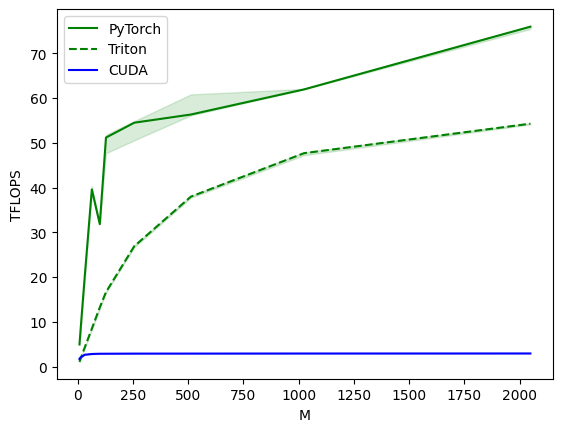
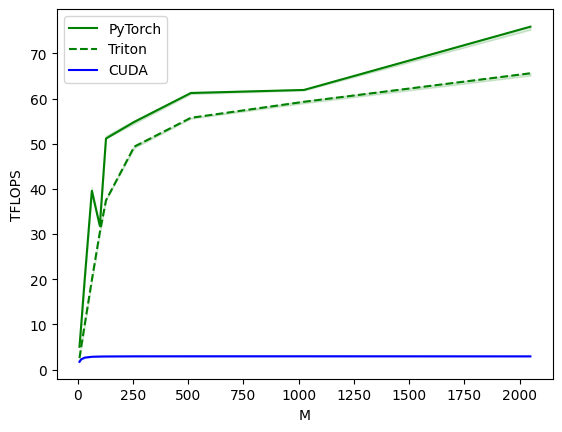
Triton kernel now unpacks zeros itself. Performance of Triton kernel is now even closer to FP16. Also tweaked ppl.py slightly to reduce memory usage.

diff --git a/quant.py b/quant.py
@@ -157,7 +157,7 @@ def matmul4_kernel(
 	B is of shape (K//8, N) int32
 	C is of shape (M, N) float16
 	scales is of shape (1, N) float16
-	zeros is of shape (1, N) float16
+	zeros is of shape (1, N//8) int32
 
 	WARNING: This kernel assumes that K is a multiple of BLOCK_SIZE_K.
 	WARNING: This kernel assumes that N is a multiple of BLOCK_SIZE_N.
@@ -181,14 +181,20 @@ def matmul4_kernel(
 	# b_ptrs is set up such that it repeats elements along the K axis 8 times
 	b_ptrs = b_ptr + ((offs_k[:, None] // 8) * stride_bk + offs_bn[None, :] * stride_bn)   # (BLOCK_SIZE_K, BLOCK_SIZE_N)
 	scales_ptrs = scales_ptr + offs_bn * stride_scales
-	zeros_ptrs = zeros_ptr + offs_bn * stride_zeros
+	# zeros_ptrs is set up such that it repeats elements along the N axis 8 times
+	zeros_ptrs = zeros_ptr + (offs_bn // 8) * stride_zeros
+
+	# shifter is used to extract the 4 bits of each element in the 32-bit word from B and zeros
+	shifter = (offs_k % 8) * 4
+	zeros_shifter = (offs_bn % 8) * 4
 
 	# Fetch scales and zeros; these are per-outfeature and thus reused in the inner loop
 	scales = tl.load(scales_ptrs)  # (BLOCK_SIZE_N,)
-	zeros = tl.load(zeros_ptrs)  # (BLOCK_SIZE_N,)
+	zeros = tl.load(zeros_ptrs)  # (BLOCK_SIZE_N,), each element is repeated 8 times, int32
 
-	# shifter is used to extract the 4 bits of each element in the 32-bit word from B
-	shifter = (offs_k % 8) * 4
+	# Unpack zeros
+	zeros = (zeros >> zeros_shifter) & 0xF  # (BLOCK_SIZE_N,) int32
+	zeros = (zeros + 1) * scales  # (BLOCK_SIZE_N,) float16
 
 	# For debugging
 	#offs_dk = 0 + tl.arange(0, BLOCK_SIZE_K)
@@ -251,13 +257,6 @@ def triton_matmul4(a: torch.FloatTensor, qweight: torch.IntTensor, scales: torch
 	# This is based on the maximum BLOCK_SIZE_N; for our use cases (LLMs) we expect N to be large and a power of two
 	assert N % 256 == 0, "N must be a multiple of 256"
 
-	# Unpack zeros into (1, N) float16
-	zeros = qzeros.flatten()  # (N//8,) int32
-	zeros = torch.repeat_interleave(zeros, 8)  # ((N//8)*8,) int32
-	shifter = (torch.arange(0, N, device='cuda', dtype=torch.int32) % 8) * 4
-	zeros = (zeros >> shifter) & 0xF  # (N,) int32
-	zeros = (zeros + 1) * scales[0]  # (N,) float16
-
 	c = torch.empty((M, N), device='cuda', dtype=torch.float16)
 	#debug = torch.empty((32*32, 128), device='cuda', dtype=torch.float32)
 	grid = lambda META: (
@@ -266,12 +265,12 @@ def triton_matmul4(a: torch.FloatTensor, qweight: torch.IntTensor, scales: torch
 	#grid = lambda META: (1,)  # For debugging
 	matmul4_kernel[grid](
 		x, qweight, c, #debug,
-		scales, zeros,
+		scales, qzeros,
 		M, N, K,
 		x.stride(0), x.stride(1),
 		qweight.stride(0), qweight.stride(1),
 		c.stride(0), c.stride(1),
-		scales.stride(1), zeros.stride(0),
+		scales.stride(1), qzeros.stride(1),
 		#debug.stride(0), debug.stride(1),
 	)
 

diff --git a/ppl.py b/ppl.py
@@ -87,17 +87,17 @@ def calculate_perplexity(model, tokenizer, dataset: str, max_length: int, stride
 	nlls = []
 	prev_end_loc = 0
 
-	for begin_loc in tqdm(range(0, seq_len - 1, stride)):
-		torch.cuda.synchronize()
+	for begin_loc in (pbar := tqdm(range(0, seq_len - 1, stride))):
 		end_loc = min(seq_len - 1, begin_loc + max_length)
 		trg_len = end_loc - prev_end_loc  # How many tokens we want to predict
 		input_ids = encodings[:, begin_loc:end_loc+1].to('cuda')  # +1 for the labels
 
 		with torch.no_grad():
 			# Ask the model for logits
-			outputs = model(input_ids[:, :-1])
-			# We only want the last trg_len logits
-			logits = outputs.logits[..., -trg_len:, :].contiguous()
+			# NOTE: Instead of calling HF's model wrapper, we call the model directly to hopefully cut down on some memory overhead
+			outputs = model.model(input_ids[:, :-1])
+			logits = model.lm_head(outputs[0][..., -trg_len:, :])
+
 			# The last trg_len tokens are the labels
 			labels = input_ids[:, -trg_len:].contiguous()
 
@@ -105,7 +105,9 @@ def calculate_perplexity(model, tokenizer, dataset: str, max_length: int, stride
 			loss_fct = nn.CrossEntropyLoss()
 			loss = loss_fct(logits.view(-1, logits.size(-1)), labels.view(-1))
 		
-		nlls.append(loss)
+		nlls.append(loss.to('cpu').to(torch.float32))
+		ppl = torch.exp(torch.stack(nlls).mean())
+		pbar.set_description(f"Perplexity: {ppl:.2f}")
 
 		prev_end_loc = end_loc
 		if end_loc == (seq_len - 1):

diff --git a/README.md b/README.md
@@ -27,23 +27,29 @@ This benchmark was run on a 3090 using the `Benchmark.ipynb` notebook.
 ![Triton benchmark graph](TritonBench.png)
 
 
-## Accuracy
+## Accuracy (PPL)
 
 The following results were obtained using the `ppl.py` script with a stride of 512 and a context length of 2048.
 For the 4bit CUDA results, a custom version of `ppl.py` was used, as the current script is dedicated to the Triton kernel convensions.
+it/s numbers are from a 3090.
 
 
 | [LLaMA-7B](https://arxiv.org/abs/2302.13971)       | Bits | group-size | memory(MiB) | it/s | Wikitext2 |  PTB  |  C4  | 
 | -------------------------------------------------- | ---- | ---------- | ----------- | ---- | --------- | ----- | ---- |
 | FP16                                               |  16  |      -     |    17373    | 1.64 |    5.04   |  7.85 | 6.99 |
 | GPTQ CUDA                                          |   4  |     -1     |     8805    | 0.11 |    5.44   |  8.24 |   -  |
-| GPTQ Triton                                        |   4  |     -1     |     8611    | 1.52 |    5.44   |  8.24 | 7.48 |
+| GPTQ Triton                                        |   4  |     -1     |     8099    | 1.63 |    5.44   |  8.24 | 7.48 |
 
 
 | [LLaMA-13B](https://arxiv.org/abs/2302.13971)      | Bits | group-size | memory(MiB) | it/s | Wikitext2 |  PTB  |  C4  |
 | -------------------------------------------------- | ---- | ---------- | ----------- | ---- | --------- | ----- | ---- |
-| FP16                                               |  16  |      -     |    OOM      |   -  |       -   |    -  |   -  |
+| FP16                                               |  16  |      -     |    31633    |   -  |    4.52   |  7.19 | 6.66 |
 | GPTQ Triton                                        |   4  |     -1     |    13241    | 0.89 |    4.74   |  7.49 | 7.00 |
+
+
+| [LLaMA-30B](https://arxiv.org/abs/2302.13971)      | Bits | group-size | memory(MiB) | it/s | Wikitext2 |  PTB  |  C4  |
+| -------------------------------------------------- | ---- | ---------- | ----------- | ---- | --------- | ----- | ---- |
+| FP16                                               |  16  |      -     |    72491    |   -  |    3.61   |  6.50 | 6.07 |
 
 
 
